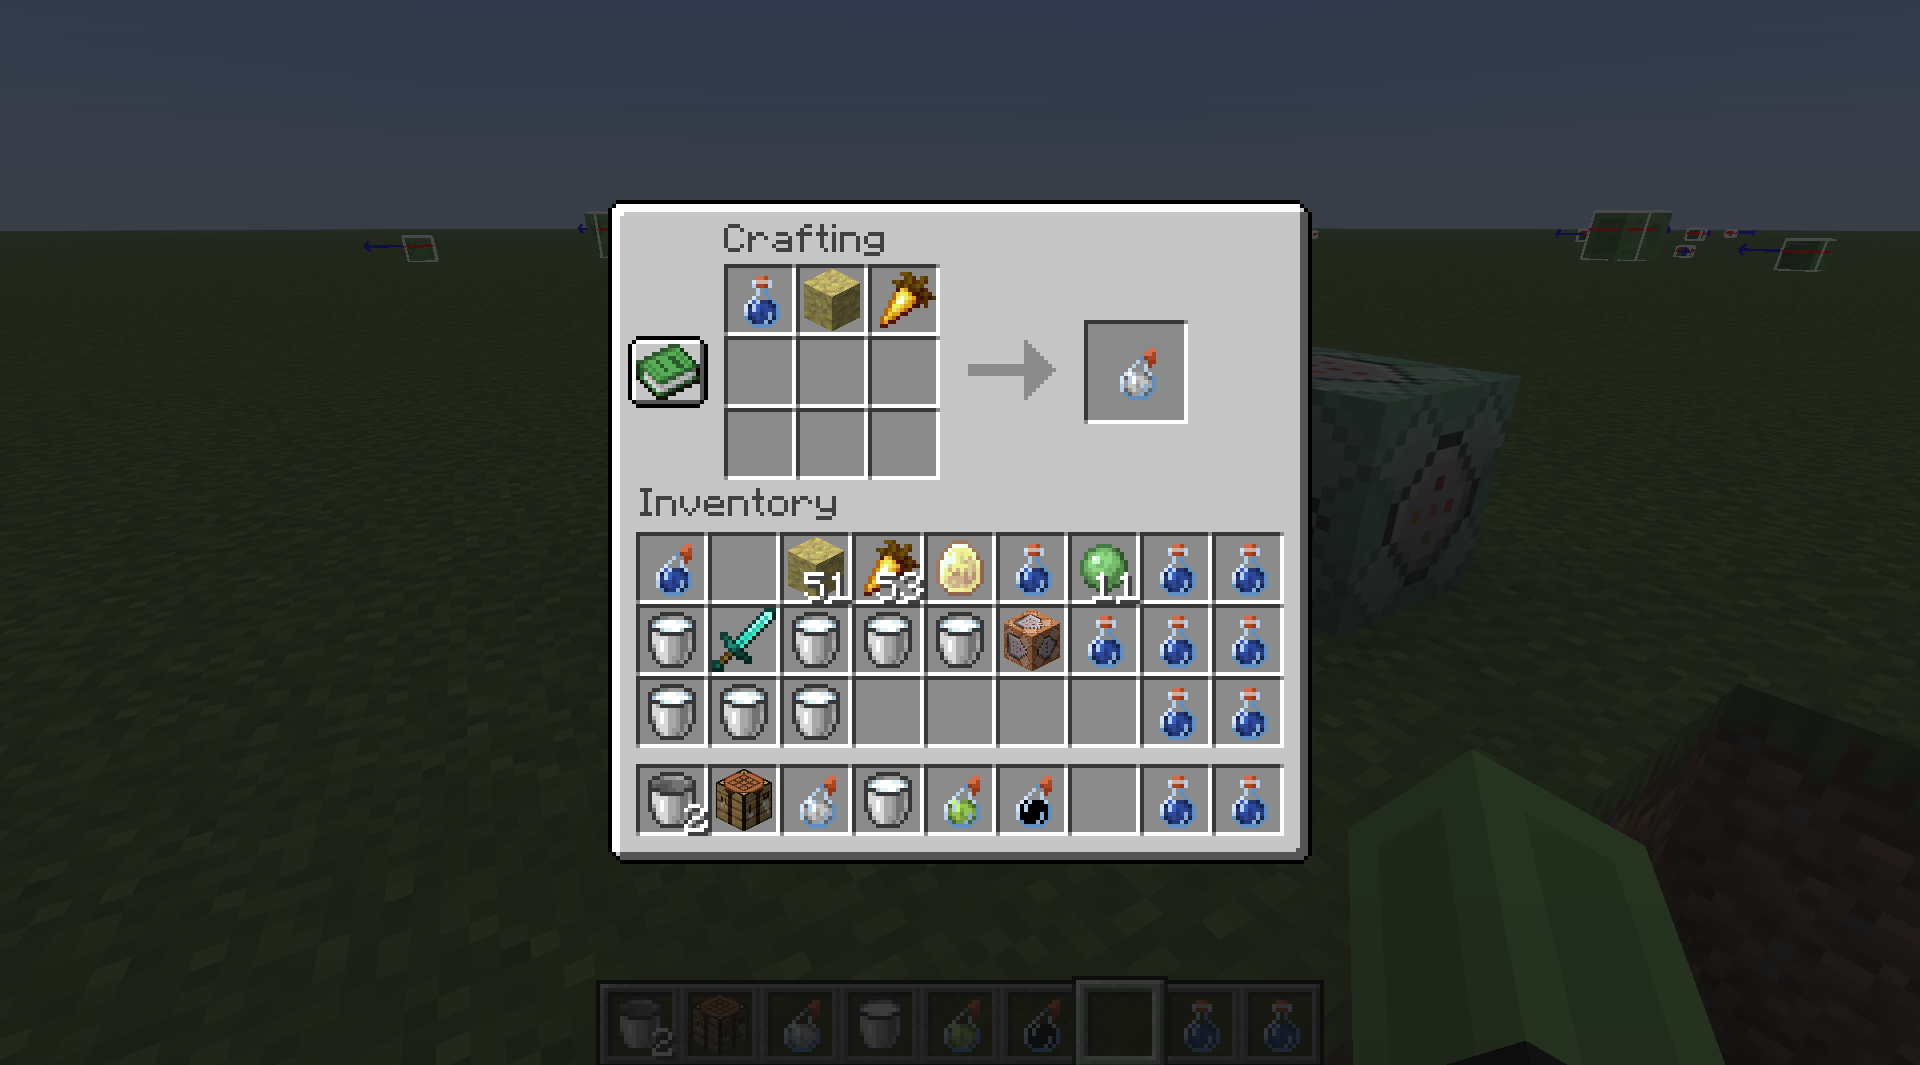
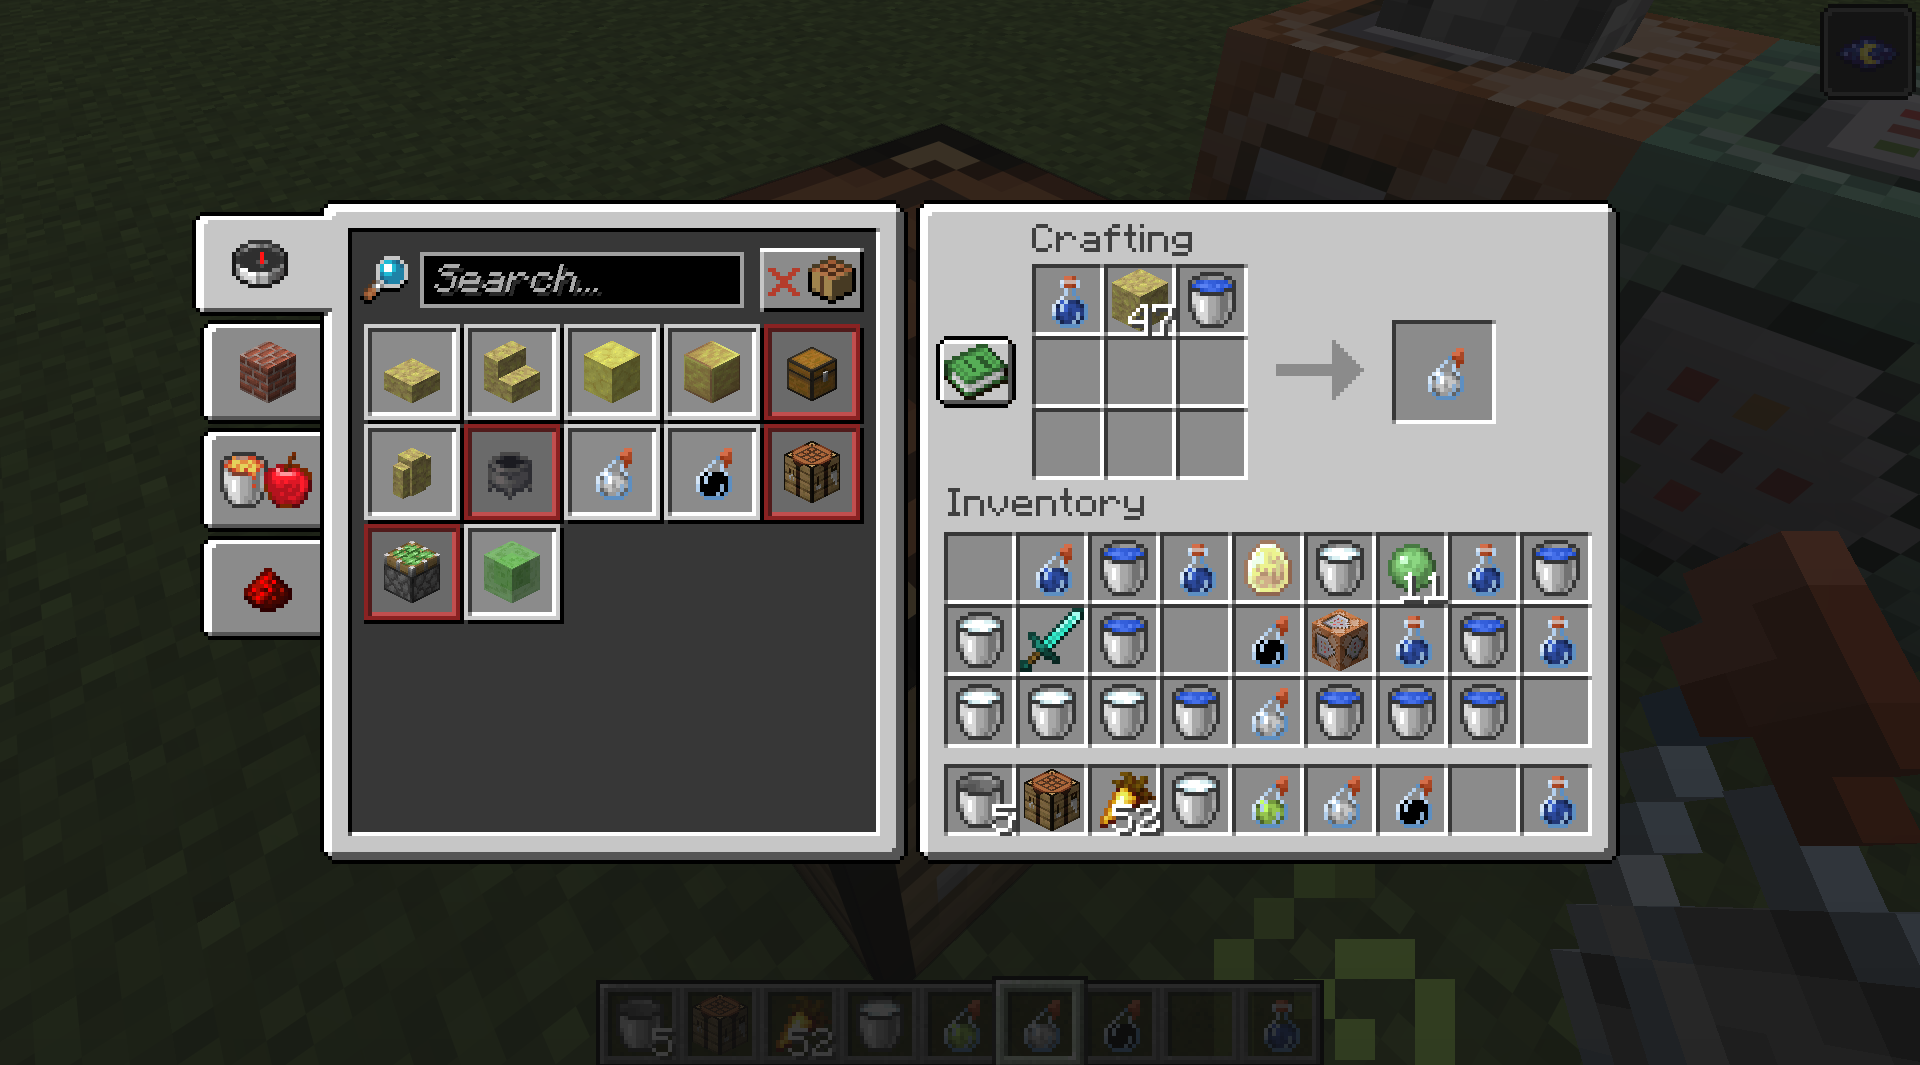
Add files via upload

diff --git a/README.md b/README.md
@@ -3,7 +3,7 @@
 Potions to permanently toggle invisible/visible sulphur cubes.
 Crafting recipe: 
 
-- Potion of invisiblity - `minecraft:potion, minecraft:sulfur, minecraft:golden_carrot`
+- Potion of invisiblity - `minecraft:potion, minecraft:sulfur, minecraft:water_bucket`
 - Potion of cleansing - `minecraft:potion, minecraft:sulfur, minecraft:milk_bucket`
 
 Potions apply NV and blindness (each amplified by 64) for 2 seconds. Sulphur cubes toggle invisiblity, all other mobs have standard effects.
